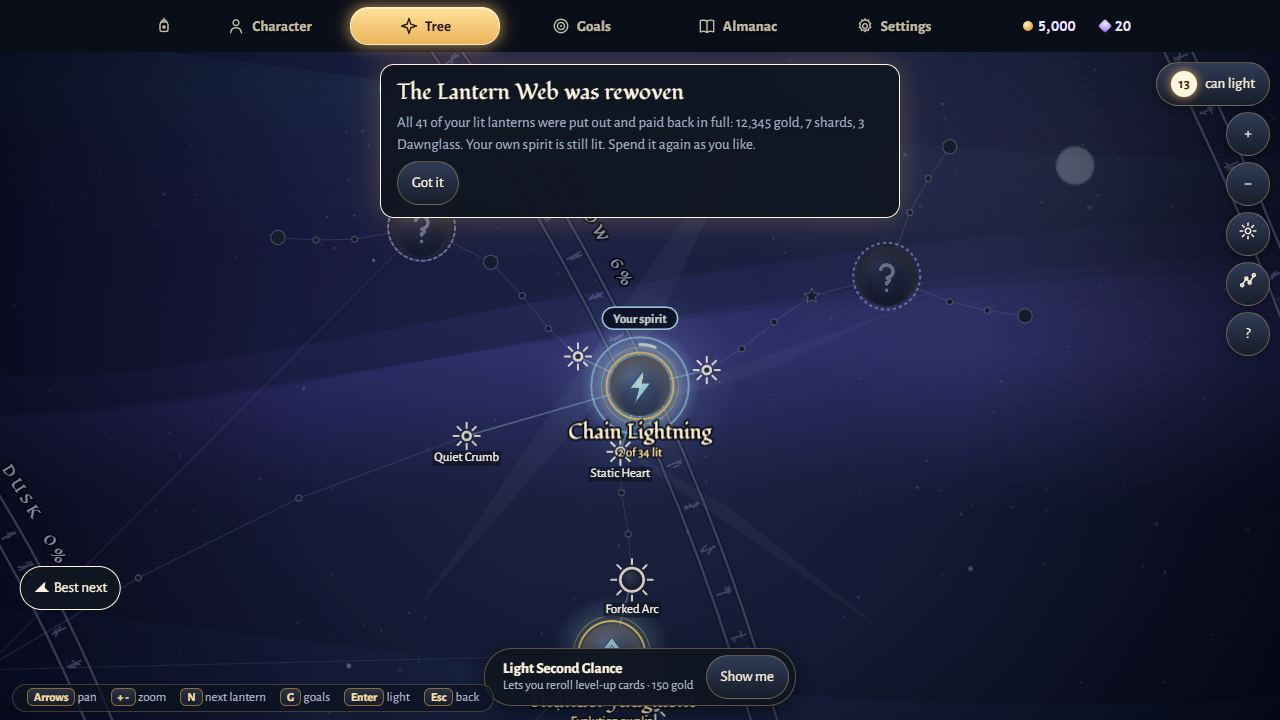
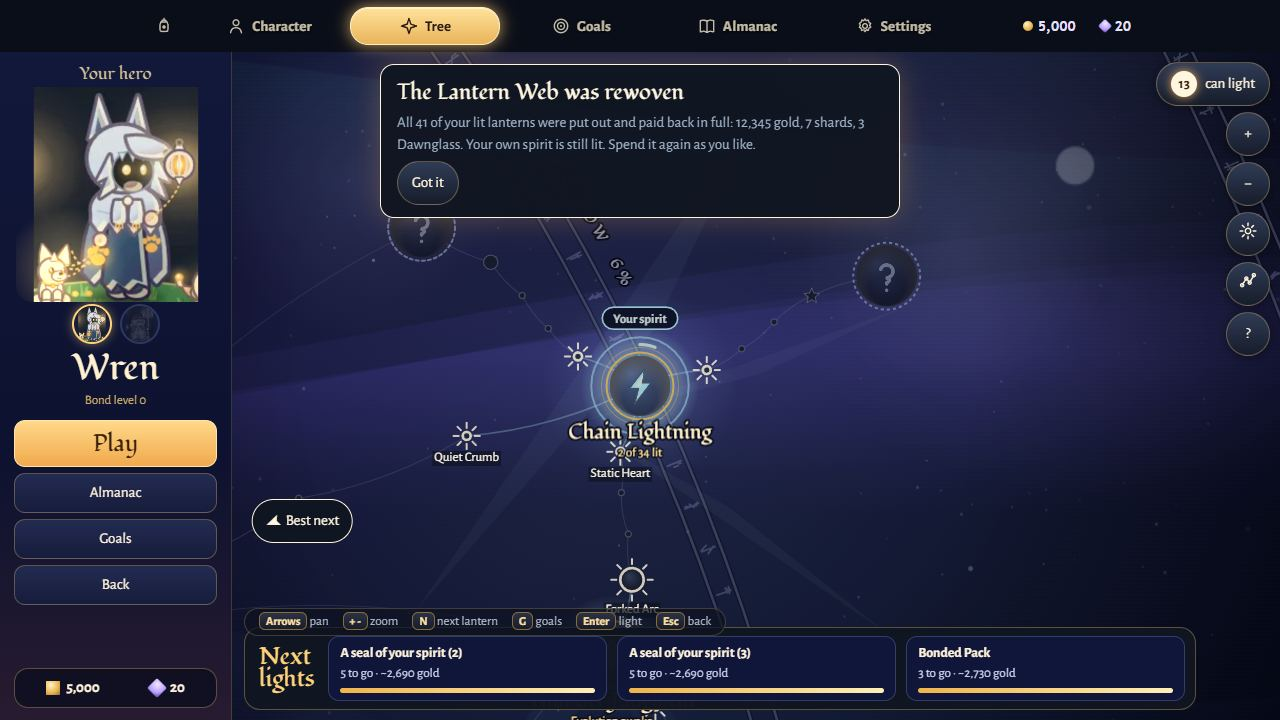
Tree home: hero panel, Next lights; look port follow-ups (tests, shots, docs)

diff --git a/src/ui/treescreen.js b/src/ui/treescreen.js
@@ -318,6 +318,12 @@ export class TreeScreen {
     this.hoverEl.append(this.hoverName, this.hoverState, this.hoverDesc);
     const keys = el('div', 'ts-keyhint'); keys.setAttribute('aria-hidden', 'true');
     for (const [k, t] of TREE_KEYS) { const b = el('span', 'ts-keyhint__i'); b.append(el('kbd', null, k), document.createTextNode(` ${t}`)); keys.append(b); }
+    this.nextEl = el('div', 'ts-next');
+    this.nextEl.setAttribute('aria-label', 'Next lights');
+    const nl = el('div', 'ts-nl'); nl.append(el('span', null, 'Next'), el('span', null, 'lights'));
+    this.nextList = el('div', 'ts-nlist');
+    this.nextEl.append(nl, this.nextList);
+    root.append(this.buildHeroPanel(), this.nextEl);
     root.append(map, panel, step, this.edge, zoom, this.scrim, idxSheet, helpSheet, tip, this.toastEl, this.noticeEl, this.srEl, this.hoverEl, keys);
     layer.append(root);
     this.bindInput(map);
@@ -373,6 +379,8 @@ export class TreeScreen {
     this.respecBtn.disabled = !Object.keys(s.tree || {}).some((id) => this.def.nodes[id] && !this.def.nodes[id].permanent);
     this.renderGoals();
     this.renderStep();
+    this.renderHero();
+    this.renderNext();
     if (this.selected) this.renderPanel();
     this.itemSig = '';
     this.dirty();
@@ -386,6 +394,7 @@ export class TreeScreen {
     this.H = Math.max(1, r.height);
     this.root.classList.toggle('ts-port', this.W <= 600 && this.H > this.W);
     this.small = this.W <= 640 || this.H <= 520;
+    this.root.classList.toggle('ts-hero-on', !this.small && this.W >= 860); // the hero panel and Next lights are the desktop tree home
     this.root.classList.toggle('ts-small', this.small);
     this.root.classList.toggle('ts-short', this.H <= 520 && this.W > this.H && this.W <= 1000); // phone-landscape sized only: a wide short desktop window keeps the roomy layout
     this.DPR = Math.min(this.def.list.length > 400 ? 1.5 : 2, window.devicePixelRatio || 1); // big webs: fewer canvas pixels on phones
@@ -412,11 +421,12 @@ export class TreeScreen {
   freeRect() {
     if (this.fr) return this.fr; // cached: reading layout every frame would force a reflow (cleared when the panel, bar or size change)
     let x0 = 0, x1 = this.W, y1 = this.H;
+    const hp = this.box(this.heroEl); if (hp) x0 = Math.max(x0, hp.right);
     const b = this.box(this.barEl);
     const y0 = b ? b.bottom : 0;
     const p = this.panelEl.classList.contains('open') ? this.box(this.panelEl) : null;
     if (p) { if (p.width > this.W * 0.8) y1 = Math.min(y1, p.top); else if (p.left > this.W / 2) x1 = Math.min(x1, p.left); else x0 = Math.max(x0, p.right); }
-    const s = this.box(this.stepEl);
+    const s = this.box(this.stepEl) || this.box(this.nextEl);
     if (s) y1 = Math.min(y1, s.top);
     this.fr = [x0, y0, x1, y1];
     return this.fr;
@@ -777,7 +787,7 @@ export class TreeScreen {
     return { ...st, caption: hn && wn ? `${hn} · ${wn}` : hn || wn, color: reg ? reg.color : '#ffd9a0', art: reg ? reg.art : '' };
   }
   portraitImg(hero) {
-    const im = this.portraitOf(hero, () => this.dirty());
+    const im = this.portraitOf(hero, () => { this.dirty(); if (this.open_) this.renderHero(); });
     return im && im.complete && im.naturalWidth > 0 ? im : null;
   }
   /** The hub coin: the chosen hero's portrait with the starter spirit's emblem as a small badge; the plain hearth lantern when no starter is known. */
@@ -1119,6 +1129,101 @@ export class TreeScreen {
       c.fillStyle = '#ffe6ae'; c.fillText(txt, x, by + h / 2 + 1);
     }
     c.globalAlpha = 1;
+  }
+
+  // ------------------------------------------------------------------ HERO PANEL + NEXT LIGHTS (tree home, desktop; LOCKED 'TREE AS HOME SCREEN' / sandbox)
+  /** Left panel: the last-played hero (portrait, a glow spot where the companion will stand), swap row, Play / Almanac / Goals / Back, purse. */
+  buildHeroPanel() {
+    const p = el('aside', 'ts-hero');
+    p.setAttribute('aria-label', 'Your hero');
+    this.heroEl = p;
+    this.heroLabel = el('div', 'ts-hl', 'Your hero');
+    this.heroCv = el('canvas', 'ts-hcv'); this.heroCv.width = 400; this.heroCv.height = 430; this.heroCv.setAttribute('aria-hidden', 'true');
+    this.heroSwap = el('div', 'ts-swap'); this.heroSwap.setAttribute('role', 'group'); this.heroSwap.setAttribute('aria-label', 'Choose your hero');
+    this.heroName = el('div', 'ts-hname');
+    this.heroSub = el('div', 'ts-hsub');
+    const play = btn('ts-hbtn ts-hplay', 'Play');
+    play.addEventListener('click', () => { if (this.host.sound) this.host.sound('ui_step'); this.host.navTo('play'); });
+    const alm = btn('ts-hbtn', 'Almanac'); alm.addEventListener('click', () => this.host.navTo('almanac'));
+    this.heroGoals = btn('ts-hbtn', 'Goals'); this.heroGoals.addEventListener('click', () => this.toggleGoals(false));
+    const back = btn('ts-hbtn', 'Back'); back.addEventListener('click', () => this.close());
+    this.heroGold = el('span'); this.heroShard = el('span');
+    const coins = el('div', 'ts-hcoins');
+    const mk = (icon, v) => { const w = el('span', 'ts-hc'); const i = el('i', icon); i.setAttribute('aria-hidden', 'true'); w.append(i, v); return w; };
+    coins.append(mk('ts-i-gold', this.heroGold), mk('ts-i-shard', this.heroShard));
+    p.append(this.heroLabel, this.heroCv, this.heroSwap, this.heroName, this.heroSub, play, alm, this.heroGoals, back, coins);
+    return p;
+  }
+  /** Paint one portrait into a canvas (cover crop on the face) or a plain initial when there is no picture. */
+  paintPortrait(cv, hero, name, awake) {
+    const g = cv.getContext('2d'); if (!g) return;
+    const w = cv.width, h = cv.height; g.clearRect(0, 0, w, h);
+    const im = this.portraitImg(hero);
+    if (im) { const k = Math.min(w / im.naturalWidth, h / im.naturalHeight); g.globalAlpha = awake ? 1 : 0.45; if (!awake) g.filter = 'grayscale(1) brightness(.6)'; g.drawImage(im, (w - im.naturalWidth * k) / 2, h - im.naturalHeight * k, im.naturalWidth * k, im.naturalHeight * k); g.filter = 'none'; g.globalAlpha = 1; }
+    else { g.fillStyle = awake ? '#fff1cf' : '#8e97b8'; g.font = `${Math.round(h * 0.5)}px ${FONT_HEAD}`; g.textAlign = 'center'; g.textBaseline = 'middle'; g.fillText(String(name || '?').slice(0, 1), w / 2, h / 2); }
+  }
+  renderHero() {
+    if (!this.heroEl || !this.api.heroes) return;
+    const H = this.api.heroes(); const s = this.api.save();
+    const cur = H.list.find((h) => h.id === H.hero) || H.list[0];
+    if (!cur) return;
+    this.heroName.textContent = cur.name;
+    this.heroSub.textContent = cur.awake ? `Bond level ${cur.bond}` : `Keepsakes ${cur.keep} of ${cur.need}`;
+    const g = this.heroCv.getContext('2d');
+    if (g) g.clearRect(0, 0, 400, 430);
+    this.paintPortrait(this.heroCv, cur.id, cur.name, cur.awake);
+    if (g) { // the glow spot: where the companion will stand beside the hero
+      g.save(); g.globalCompositeOperation = 'lighter'; const gr = g.createRadialGradient(100, 360, 0, 100, 360, 120); gr.addColorStop(0, 'rgba(255,210,122,.4)'); gr.addColorStop(1, 'rgba(255,210,122,0)'); g.fillStyle = gr; g.fillRect(0, 0, 400, 430); g.restore();
+    }
+    this.heroSwap.replaceChildren();
+    for (const h of H.list) {
+      const b = btn(`ts-swapb${h.id === cur.id ? ' on' : ''}${h.awake ? '' : ' asleep'}`, null, h.awake ? `Play as ${h.name}` : `${h.name}, asleep. Keepsakes ${h.keep} of ${h.need}`);
+      b.setAttribute('title', h.awake ? h.name : `${h.name}: keepsakes ${h.keep} of ${h.need}`);
+      b.setAttribute('aria-pressed', h.id === cur.id ? 'true' : 'false');
+      const cv = el('canvas'); cv.width = 80; cv.height = 80; this.paintPortrait(cv, h.id, h.name, h.awake); b.append(cv);
+      if (h.awake) b.addEventListener('click', () => { if (this.api.setHero && this.api.setHero(h.id)) this.renderHero(); });
+      else b.setAttribute('aria-disabled', 'true');
+      this.heroSwap.append(b);
+    }
+    this.heroGold.textContent = fmtN(s.gold); this.heroShard.textContent = fmtN(s.shards);
+    this.heroGoals.textContent = 'Goals';
+  }
+
+  /** 'Next lights': up to three goals. First the evolution seals on the starter spirit's own branches, then the nearest other landmarks, each with the lanterns to go and the gold. */
+  nextLights() {
+    const m = this.model, def = this.def, V = this.view;
+    const dist = new Map(), prev = new Map(), q = [];
+    for (const n of this.adj.keys()) if (n === 'hub' || m.lit(n)) { dist.set(n, 0); q.push(n); }
+    for (let h = 0; h < q.length; h++) { const u = q[h]; for (const { to } of this.adj.get(u) || []) { if (dist.has(to) || this.veil.has(to)) continue; dist.set(to, dist.get(u) + 1); prev.set(to, u); q.push(to); } }
+    const chain = (id) => { const out = []; let u = id; while (u && !(u === 'hub' || m.lit(u)) && out.length < 80) { out.push(u); u = prev.get(u); } return out.reverse(); }; // first lantern to light .. the goal
+    const row = (id) => {
+      const ce = m.cache[id]; if (!ce || ce.s === 'fog' || this.veil.has(id) || !dist.has(id) || m.lit(id)) return null;
+      const steps = chain(id); if (!steps.length) return null;
+      let gold = 0; for (const x of steps) gold += m.costOf(x);
+      return { id, first: steps[0], n: steps.length, gold, name: ce.d.masked ? 'A seal of your spirit' : ce.d.name };
+    };
+    const out = [], seen = new Set();
+    const reg = this.starter ? V.regions.find((r) => r.kind === 'cluster' && r.heart === this.starter.heart) : null;
+    if (reg) { let ix = 0; for (const g of V.gardens || []) { if (m.region(g.seal) !== reg) continue; ix++; const r = row(g.seal); if (r && out.length < 2) { if (m.cache[g.seal].d.masked) r.name = `${r.name} (${ix})`; out.push(r); seen.add(r.id); } } }
+    const lm = def.list.filter((id) => this.tierOfId(id) === 'landmark' && !seen.has(id) && !def.nodes[id].teaser).map(row).filter(Boolean).sort((a, b) => a.n - b.n || a.gold - b.gold);
+    for (const r of lm) { if (out.length >= 3) break; out.push(r); }
+    return out;
+  }
+  renderNext() {
+    if (!this.nextEl) return;
+    const rows = this.nextLights();
+    this.nextList.replaceChildren();
+    if (!rows.length) { this.nextList.append(el('div', 'ts-nc ts-nc0', 'Everything reachable is lit.')); return; }
+    const total = Math.max(1, ...rows.map((r) => r.gold));
+    for (const r of rows) {
+      const b = btn('ts-nc', null); b.setAttribute('aria-label', `${r.name}: ${r.n} to go, about ${fmtN(r.gold)} gold. Show the first lantern`);
+      const have = this.api.save().gold; const bar = el('i'); bar.style.width = `${Math.round(100 * Math.min(1, have / Math.max(1, r.gold)))}%`;
+      const nb = el('div', 'ts-nb'); nb.append(bar);
+      b.append(el('b', null, r.name), el('span', null, `${r.n} to go · ~${fmtN(r.gold)} gold`), nb);
+      b.addEventListener('click', () => this.select(r.first, true));
+      this.nextList.append(b);
+    }
+    void total;
   }
 
   drawWeb(t) {

diff --git a/src/ui/treescreen.css b/src/ui/treescreen.css
@@ -171,3 +171,33 @@
 /* Calm motion (setting or system): no fades or slides */
 .ts.ts-calm *, .ts.ts-calm { transition: none !important; animation: none !important; }
 @media (prefers-reduced-motion: reduce) { .ts * { transition: none !important; animation: none !important; } }
+
+/* ---- tree look port: hero panel + Next lights (desktop tree home; hidden on phones and narrow windows) ---- */
+.ts-hero, .ts-next { display: none; }
+.ts.ts-hero-on .ts-hero { position: absolute; left: 0; top: 0; bottom: 0; width: 232px; z-index: 7; display: flex; flex-direction: column; align-items: center; gap: 6px; padding: 10px 14px 12px; background: linear-gradient(180deg, #12183a, #0d1230 60%, #271b30); border-right: 1px solid rgba(255, 210, 122, .18); }
+.ts-hl { font: 17px var(--font-display); color: #cdbf95; }
+.ts-hcv { width: 200px; height: 215px; margin-top: -4px; border-radius: 16px; }
+.ts-swap { display: flex; gap: 8px; margin-top: -4px; }
+.ts-swapb { width: 40px; height: 40px; min-width: 40px; min-height: 40px; padding: 0; border-radius: 50%; border: 2px solid #3b4670; background: #171d3c; overflow: hidden; position: relative; }
+.ts-swapb.on { border-color: #ffd27a; box-shadow: 0 0 10px rgba(255, 210, 122, .5); }
+.ts-swapb.asleep { opacity: .7; cursor: default; }
+.ts-swapb canvas { width: 100%; height: 100%; display: block; }
+.ts-hname { font: 36px/1 var(--font-display); color: #fff1cf; }
+.ts-hsub { font-size: 13px; color: #d6b36a; margin-bottom: 4px; }
+.ts-hbtn { width: 100%; padding: 9px 0; min-height: 40px; border-radius: 11px; border: 1px solid rgba(255, 210, 122, .3); background: linear-gradient(#232b52, #161c3b); font-weight: 600; font-size: 14px; }
+.ts-hbtn.ts-hplay { background: linear-gradient(#ffd98a, #f1a94d); color: #3a2308; font: 24px var(--font-display); padding: 6px 0; border-color: #ffe6ae; }
+.ts-hcoins { margin-top: auto; display: flex; justify-content: space-around; width: 100%; padding: 9px 6px; border-radius: 14px; border: 1px solid var(--ts-line); background: rgba(8, 12, 28, .7); font-weight: 700; }
+.ts-hc { display: inline-flex; align-items: center; gap: 6px; }
+.ts-hc i { width: 14px; height: 14px; display: inline-block; flex: none; }
+.ts.ts-hero-on .ts-step { display: none; }
+.ts.ts-hero-on .ts-keyhint { left: 244px; bottom: 84px; }
+.ts.ts-hero-on .ts-next { position: absolute; left: 244px; right: 84px; bottom: 10px; z-index: 5; display: flex; gap: 10px; align-items: stretch; padding: 8px 10px; border-radius: 16px; background: var(--ts-panel); border: 1px solid var(--ts-line); }
+.ts-nl { font: 24px/.95 var(--font-display); color: #ffd27a; align-self: center; padding: 0 4px; display: flex; flex-direction: column; }
+.ts-nlist { flex: 1; min-width: 0; display: flex; gap: 10px; }
+.ts-nc { flex: 1; min-width: 0; text-align: left; padding: 7px 11px; border-radius: 11px; border: 1px solid #333d68; background: #10163a; }
+.ts-nc:hover { border-color: #ffd27a; }
+.ts-nc b { display: block; font-size: 14px; white-space: nowrap; overflow: hidden; text-overflow: ellipsis; }
+.ts-nc span { font-size: 13px; color: #cfd7f3; }
+.ts-nb { height: 5px; background: #1b2243; border-radius: 4px; margin-top: 5px; overflow: hidden; }
+.ts-nb i { display: block; height: 100%; background: linear-gradient(90deg, #f0b44a, #fff0b8); }
+.ts-nc0 { cursor: default; color: #cfd7f3; }

diff --git a/src/app.js b/src/app.js
@@ -19,6 +19,7 @@ import { touchEnabled } from './input/stick.js';
 import { parseParams } from './params.js';
 import { tierIndex, TIER_IDS, resolveTier } from './sim/tiers.js';
 import { hasNightChoice, defaultNight, mapView, rememberNight, pickRunTier } from './ui/nightcopy.js';
+import { keepsakeDef } from './meta/bond.js';
 import { buildTreeView } from './meta/treeview.js';
 import { compileTree, aggregateMods, presetTree, buy as buyNode, respec as respecTree, closestUnlocks, nodeStatus } from './meta/tree.js';
 import { cardFor, hasIntro, withIntro, introsForOffer, CARDS, INTRO_IDS, cleanIntros } from './ui/introcopy.js';
@@ -391,6 +392,23 @@ export const app = {
       bookFrac: (() => { try { const b = this.book(); return b.pages.total ? b.pages.found / b.pages.total : 0; } catch { return 0; } })(),
       clearRegrowth: () => {
         if (this.save.data.notes && this.save.data.notes.regrowth) { delete this.save.data.notes.regrowth; this.save.saveNow(); }
+      },
+      // tree home hero panel: the last-played hero and every hero (awake or asleep); setHero stores the new last hero (awake heroes only, same loadout rule as the loadout screens)
+      heroes: () => {
+        const s = this.save.data; const need = keepsakeDef(data.balance).need;
+        const list = Object.keys(data.characters).map((id) => { const awake = isAwake(s, id); return { id, name: String(data.characters[id].name || id).split(',')[0].slice(0, 24), awake, keep: awake ? 0 : Math.max(0, Math.floor(Number(s.chars && s.chars[id] && s.chars[id].keep) || 0)), need, bond: awake ? bondLevel(s, data, id) : 0 }; });
+        const lo = this.lastLoadout();
+        const cur = list.find((h) => h.id === lo.hero && h.awake) || list.find((h) => h.awake) || list[0];
+        return { hero: cur ? cur.id : '', list };
+      },
+      setHero: (id) => {
+        const s = this.save.data;
+        if (typeof id !== 'string' || !Object.hasOwn(data.characters, id) || !isAwake(s, id) || this.save.readOnly) return false;
+        const n = s.notes || (s.notes = {}); const w = (n.loadout && n.loadout.weapon) || (n.starter && n.starter.weapon);
+        if (!w || !Object.hasOwn(data.weapons, w)) return false;
+        n.loadout = { hero: id, weapon: w };
+        this.save.saveNow();
+        return true;
       },
       clearResetNotice: () => {
         if (this.save.data.notes && this.save.data.notes.treeResetNotice) { delete this.save.data.notes.treeResetNotice; this.save.saveNow(); }

diff --git a/src/ui/ui.js b/src/ui/ui.js
@@ -169,6 +169,7 @@ export class UI {
     if (dest === 'home') this.showStart(this.onPick);
     else if (dest === 'character') this.showCharacters();
     else if (dest === 'tree' && h.openTree) h.openTree();
+    else if (dest === 'play') { this.showStart(this.onPick); this.beginLoadout(); }
     else if (dest === 'goals' && h.openTree) { h.openTree(); this.tree.toggleGoals(true); }
     else if (dest === 'almanac') { this.showStart(this.onPick); this.showAlmanac('title'); }
     else if (dest === 'settings') { this.showStart(this.onPick); this.showSettings(); }

diff --git a/docs/QUEUE.md b/docs/QUEUE.md
@@ -524,3 +524,5 @@ Tree rework state: look LOCKED from the sandbox (night sky, rune rings, Tune val
 - Small fix on the way: hover tooltip state line 'CAN LIGHT NOW' was cream on cream (deskroom.css).
 - Differences from the sandbox (honest): threads are straight lines (sandbox curved); no sandbox-style 'x of y to Spirit Bolts' route chips or Legend/Tune/Debug panels (the real tree keeps its own legend/Next-step bar); ring shimmer and fork 'petals' not ported; veiled-fork fog not drawn (masked forks stay quiet beads as before); the real node art (coin medallions, kind shapes) was kept, not the sandbox glyph set; labels use the real label system with the locked density (hash share 0.48) rather than the sandbox's own placer, and labels do not dim with the hover focus; medSize 0.92 scales the real landmark size; glow/bright are applied as multipliers/one flat veil rather than per-sprite; the Hearth ring shows one name (three would overlap) and ring names shrink on small rings; cross links are only 4 (atlas rule). Phone: tested at 390x844, ring bands are heavy at the FAR zoom but readable.
 - Next: Matt's look at the dev shots (docs/screenshots/tree-look/), then veiled forks / route chips if he wants them.
+- LOOK PORT 2 (2026-11-12, wip/tree-q1, not merged, not shown): the differences listed above are closed: curved threads, route chips on started roads, ring shimmer, fork petals + unfurl when a seal is lit, veiled forks (fog until the seal is lit), labels dim with the hover focus, hearth wash calmed to match the sandbox brightness (mean luminance 34 vs 22 on the same view, sky patches equal), and the desktop HERO PANEL + NEXT LIGHTS (last-played hero from notes.loadout, glow spot for the companion, swap row of every hero, Play / Almanac / Goals / Back, purse; Next lights = up to 3 goals, the starter spirit's own branch seals first). Tests 1401 green, build OK, audit 0.
+- Remaining differences (honest): phone / narrow windows have no hero panel (the tab row + purse + step bar stay, as locked in the phone layout); the hero portrait is the bundled picture with its own backdrop (sandbox art was transparent); the companion is in the Wren portrait itself, the glow spot is only a warm light; the real node art and label placer stay (sandbox glyph set and placer not copied); Tune / Legend / Debug panels are sandbox tools and are not in the game (the real tree has its own '?' legend). Veiled-fork fog is a soft blob, not a '?' per fork.
